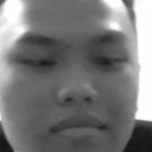
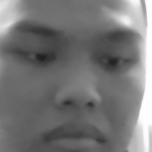
Adding photo for recognition training and file for training as well

diff --git a/face_train.py b/face_train.py
@@ -1,0 +1,23 @@
+import os
+
+# get the current directory of the file
+# os.path.dirname is used to get the directory
+BASE_DIR = os.path.dirname(os.path.abspath(__file__))
+
+# get directory of Images folder
+image_dir = os.path.join(BASE_DIR, "Images")
+
+# separate file so that only picture that get taken
+# root is top-most directory in a hierarchy
+for root, dirs, files in os.walk(image_dir):
+    for file in files:
+        if file.endswith("png") or file.endswith("jpg") or file.endswith("jpeg") or file.endswith("jfif"):
+            # join the root directory of this file with the file itself
+            path = os.path.join(root, file)
+
+            # make a label from the foldername of the file
+            # basename is to get the folder of the path
+            label = os.path.basename(root).replace(" ", "-").lower()
+
+            print(path)
+

diff --git a/face_recog.py b/face_recog.py
@@ -1,7 +1,7 @@
 import numpy as np
 import cv2
 
-std_dimensions = {
+STD_DIMENSIONS = {
     "480p": (640, 480),
     "720p": (1280, 720),
     "1080p": (1920, 1080)
@@ -17,7 +17,7 @@ face_cascade = cv2.CascadeClassifier('Cascades/data/haarcascade_frontalface_alt2
 cap = cv2.VideoCapture(0)
 
 # change the resolution
-width, height = std_dimensions["480p"]
+width, height = STD_DIMENSIONS["480p"]
 change_res(cap, width, height)
 
 while(True):
@@ -57,4 +57,3 @@ while(True):
 
 cap.release()
 cv2.destroyAllWindows()
-    
